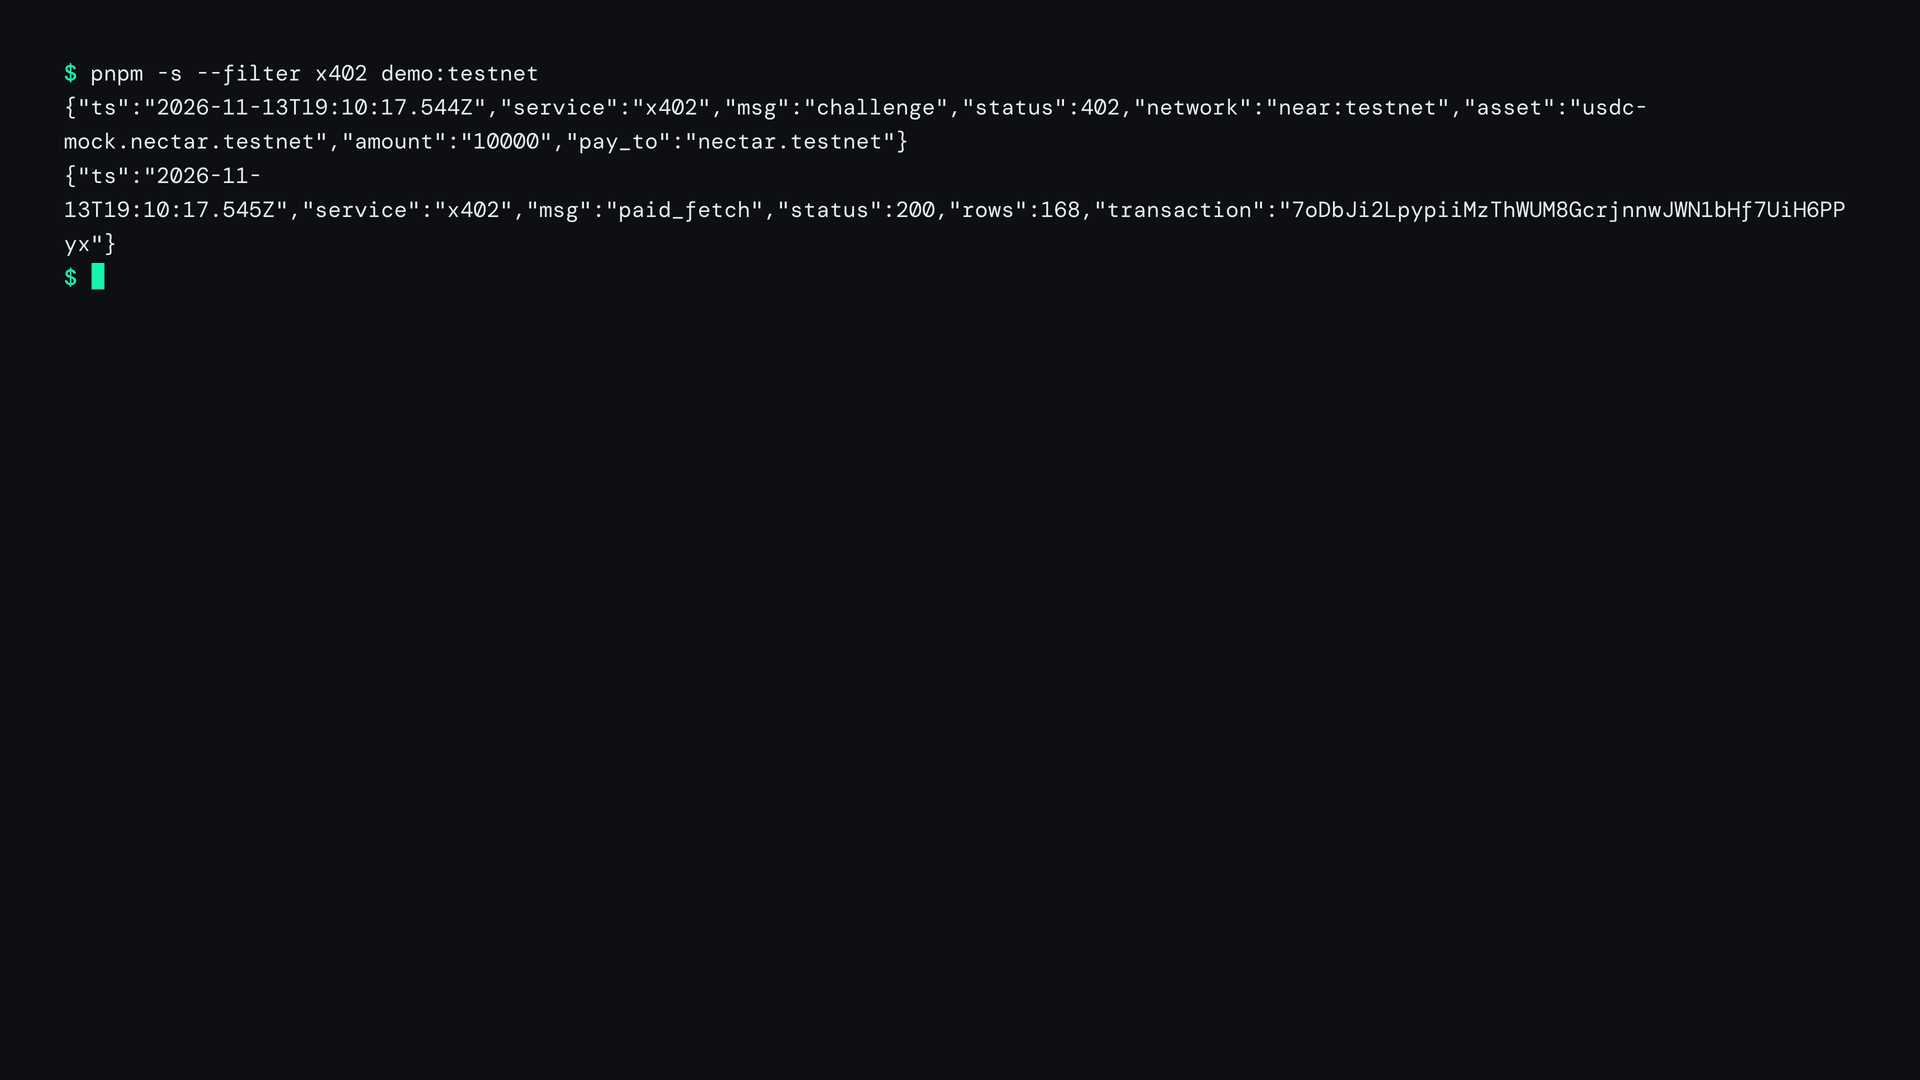
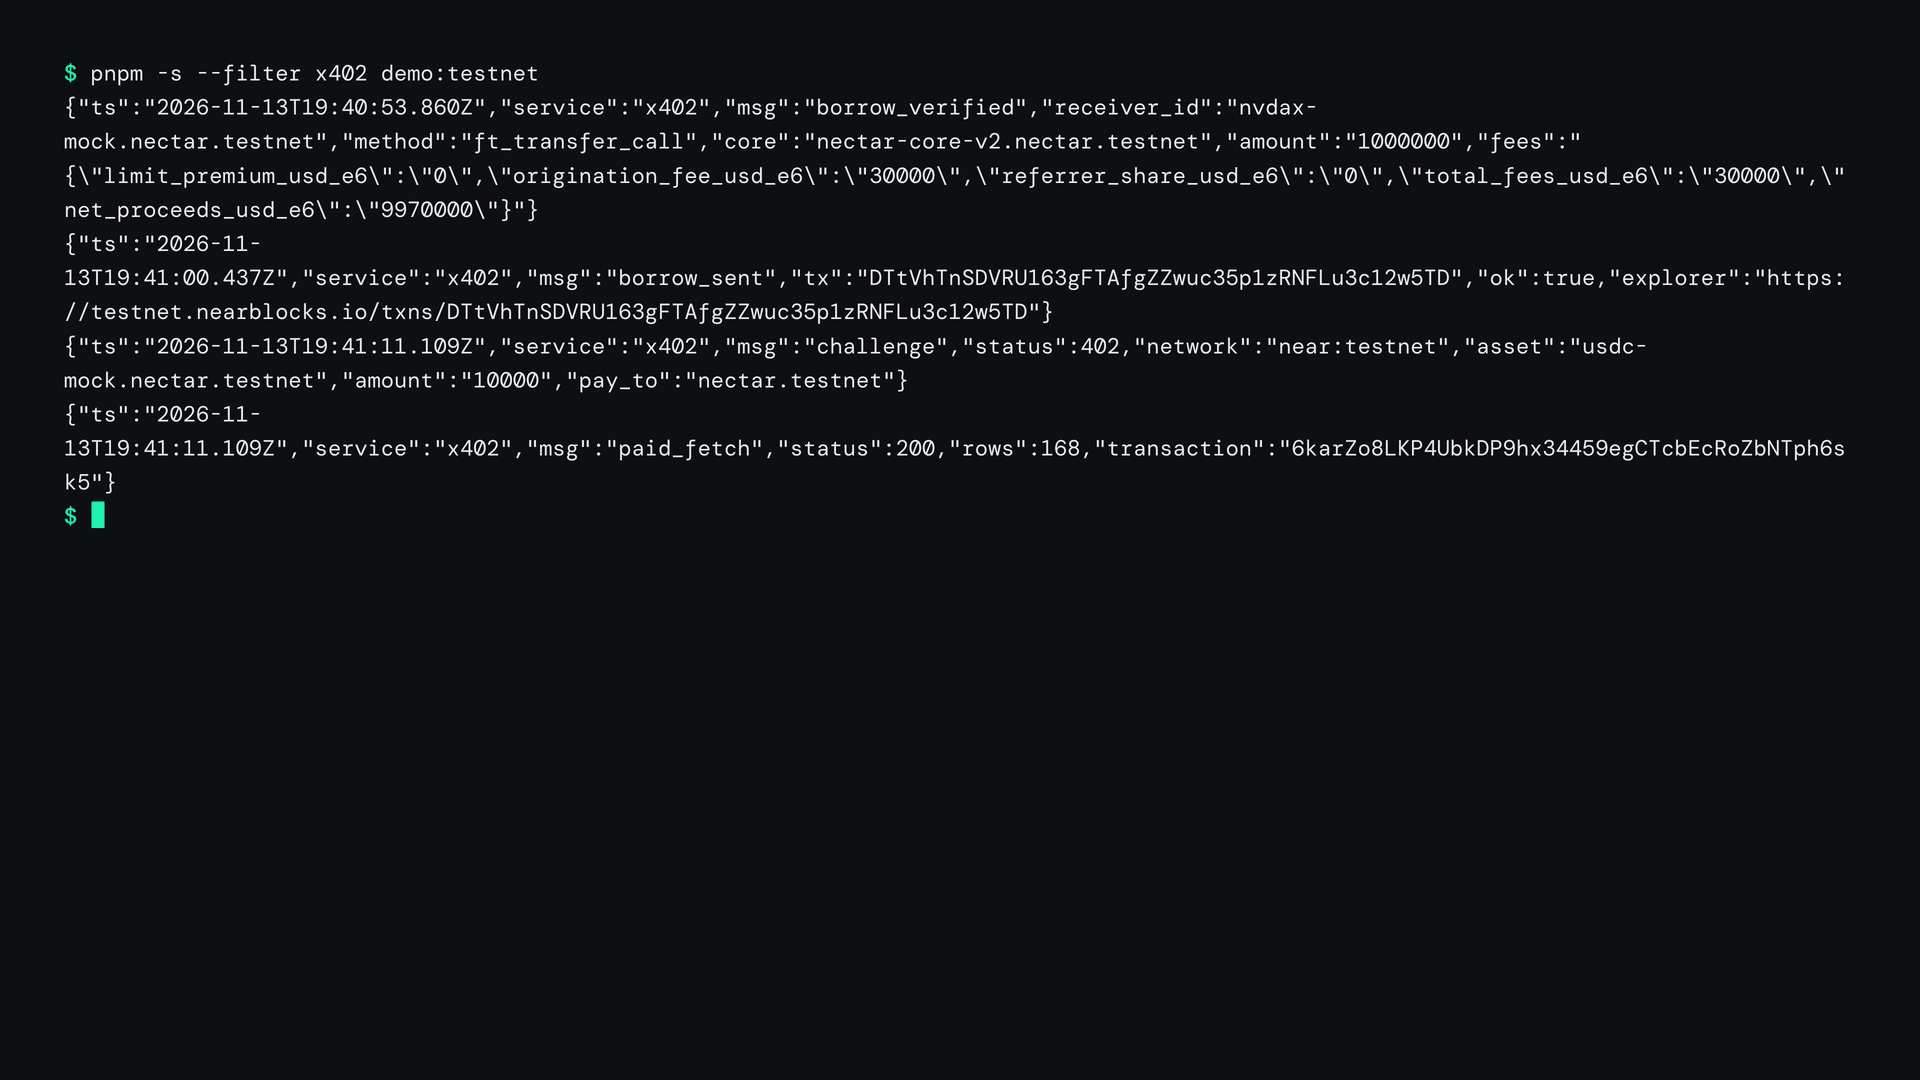
chore(demo): quick take fixes (toast without hash, explorer wait, start_ms, short Review scroll); stills 03/06 from the quick take; WO-90 additions

Changed region(s): [[0.0312, 0.0917, 0.9688, 0.4889]]

diff --git a/docs/work/wo-90-repo-cleanup.md b/docs/work/wo-90-repo-cleanup.md
@@ -12,3 +12,10 @@ Rules: no history rewrite. No content changes under apps/, packages/, services/,
 7. Report: the final top-level tree, files moved and removed, links updated.
 Orchestrator note: CLAUDE.md, STATE and work orders move — update CLAUDE.md's own path references (docs/STATE.md, docs/work/*.md) accordingly; scripts/hooks that
 read docs/work or STATE paths must follow. Do it in one docs/scripts agent round + one verifier check.
+## Additions (Kunal 2026-11-13 ~20:00Z) — after the takes, in the SAME deploy as Part B
+- Product copy (apps/web, explicitly requested, one web deploy): replace the Risk Copilot's amber "Key missing" notice on /borrow ("The NEAR AI key is not
+  configured on this server, so live answers are off. You can still run the verifier on the recorded fixture.") with NEUTRAL copy that says what the code actually
+  does when live mode is off (read CopilotPanel + lib/copilot to state it exactly; no warning tone, no amber). Judges see it on /borrow. Tests + claims.spec green.
+- README 60-second path matches real behaviour: with Intear, the borrow's success toast shows no tx hash (seen in the 2026-11-13 quick take: borrow txs
+  4oRVJZmK…, Gatpru4m…, AauPLji7…; AppProvider.tsx:124–131 shows the hash only when the wallet returns one). Point to where the tx link DOES appear (position page /
+  account history / explorer) and list the toast gap under "What this does not prove"/limitations.
